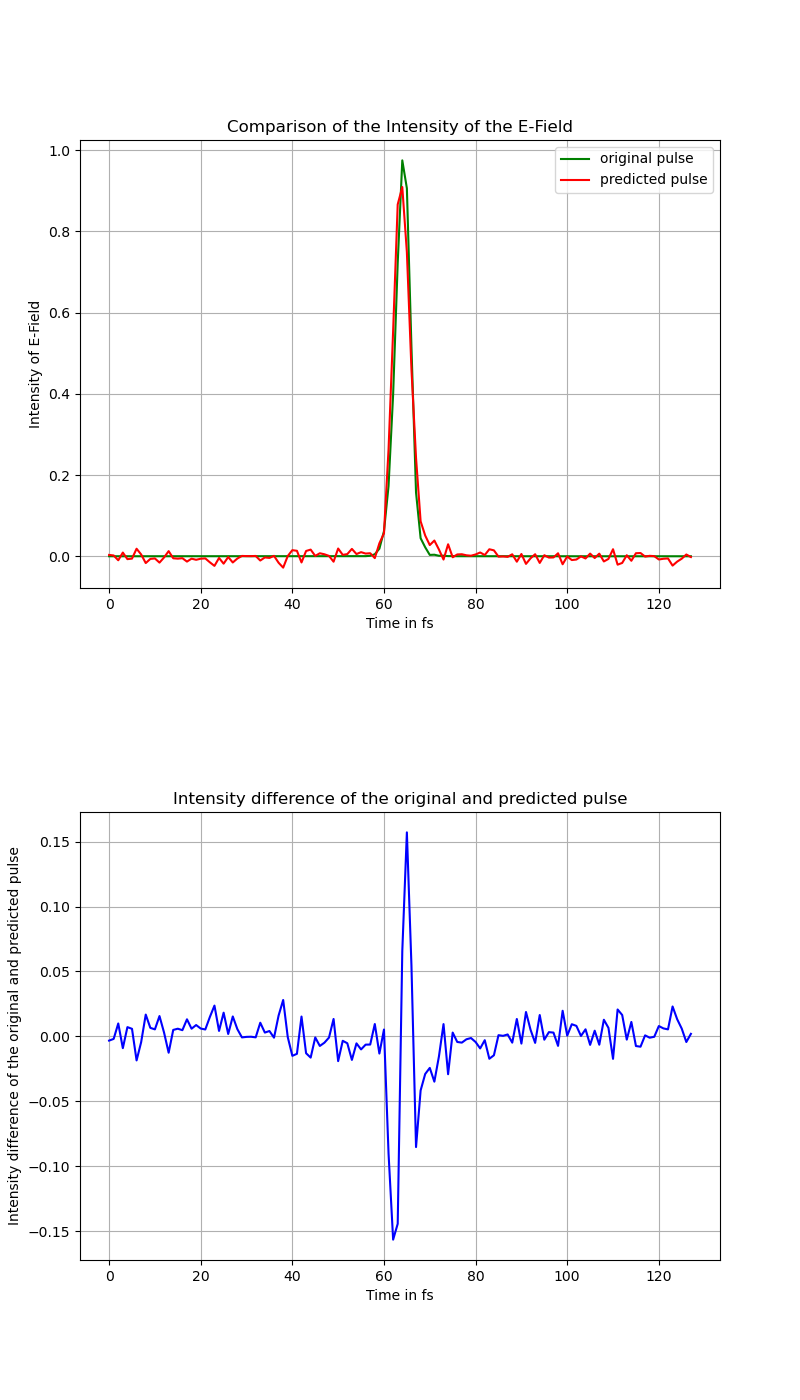
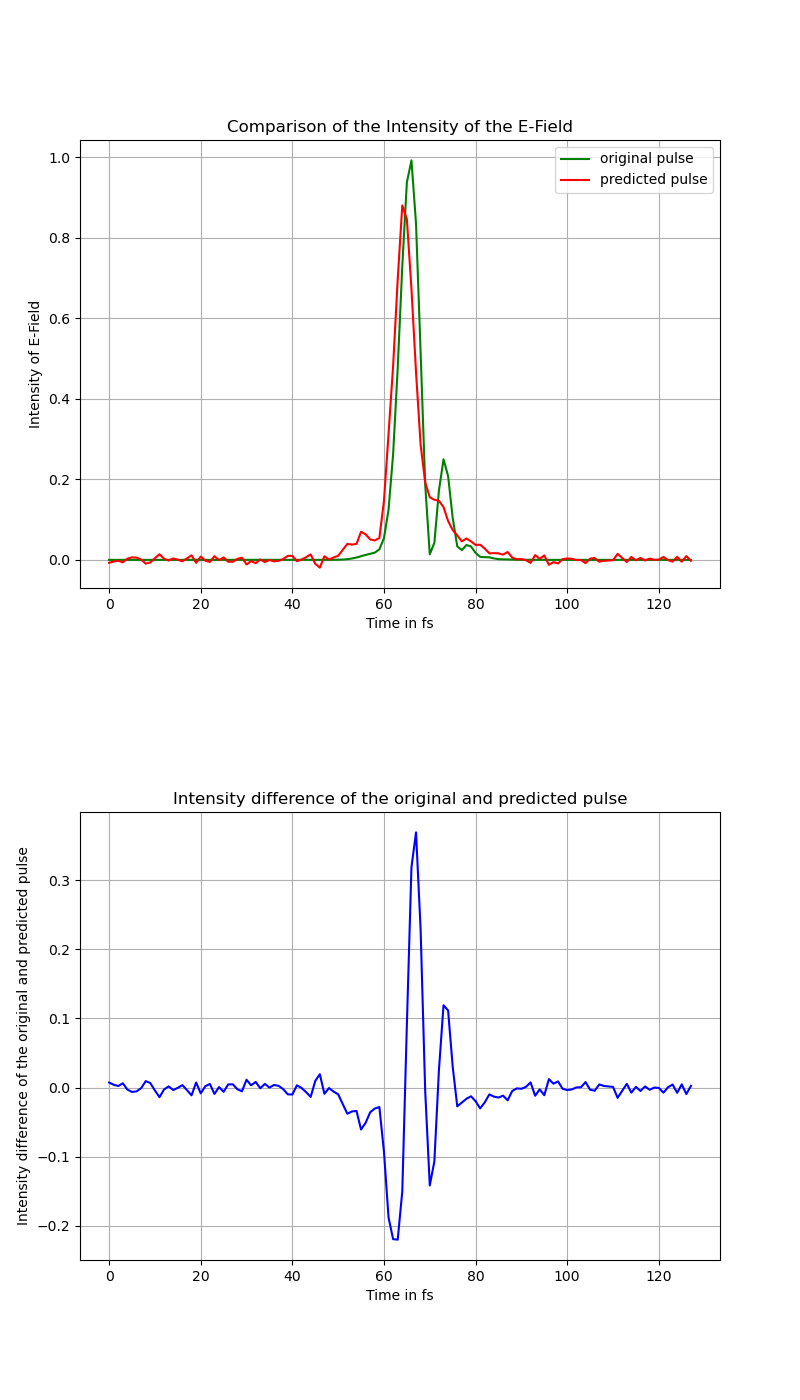
changed precision of model to half()

diff --git a/training_intensity.py b/training_intensity.py
@@ -72,7 +72,7 @@ modelIntensity = helper.CustomDenseNet(
     num_outputs=config.OUTPUT_SIZE
     )
 
-modelIntensity.float16()
+modelIntensity.half()
 modelIntensity.to(device)
 modelIntensity.eval()
 
@@ -129,7 +129,7 @@ criterion = helper.PulseRetrievalLossFunction(
 # optimizer used
 optimizer = torch.optim.Adam(modelIntensity.parameters(), lr=config.LEARNING_RATE)
 # scheduler for changing learning rate after each epoch
-scheduler = optim.lr_scheduler.ExponentialLR(optimizer, gamma=0.1)
+scheduler = optim.lr_scheduler.ExponentialLR(optimizer, gamma=1)
 # list containing all loss values
 loss_values = []
 
@@ -146,7 +146,7 @@ for epoch in range(config.NUM_EPOCHS):     # iterate over epochs
             # spectrograms = spectrograms.float()
         # send spectrogram and label data to selected device
         spectrograms = spectrograms.to(device)  # [tensor]
-        labels = labels.float16().to(device)      # [tensor]
+        labels = labels.half().to(device)      # [tensor]
         
         # Forward pass
         outputs = modelIntensity(spectrograms)   # [tensor]
@@ -172,8 +172,8 @@ for epoch in range(config.NUM_EPOCHS):     # iterate over epochs
     with torch.no_grad():   # disable gradient computation for evaluation
         val_losses = []     # list containing all validation losses (resets after each epoch)
         for spectrograms, labels in validation_loader:  # iterate over all spectrograms and labels loaded by the validation loader
-            spectrograms = spectrograms.float16().to(device)  # send spectrogram to device
-            labels = labels.float16().to(device)  # send label to device
+            spectrograms = spectrograms.half().to(device)  # send spectrogram to device
+            labels = labels.half().to(device)  # send label to device
 
             outputs = modelIntensity(spectrograms)   # calculate prediction
             val_loss = criterion(outputs, labels)   # calcultate validation loss
@@ -201,8 +201,8 @@ test_losses = []
 modelIntensity.eval()
 with torch.no_grad():
     for spectrograms, labels in test_loader:
-        spectrograms = spectrograms.float16().to(device)
-        labels = labels.float16().to(device)
+        spectrograms = spectrograms.half().to(device)
+        labels = labels.half().to(device)
 
         outputs = modelIntensity(spectrograms)
         test_loss = criterion(outputs, labels)
@@ -219,7 +219,7 @@ with torch.no_grad():
         spectrogram = spectrogram.unsqueeze(0)
         label = label.unsqueeze(0).cpu()
         # send spectrogram to device and make prediction
-        spectrogram = spectrogram.float16().to(device)
+        spectrogram = spectrogram.half().to(device)
         prediction = modelIntensity(spectrogram).cpu()
         # send label and prediction to cpu, so that it can be plotted
         # label = label_unscaler(label).cpu()
